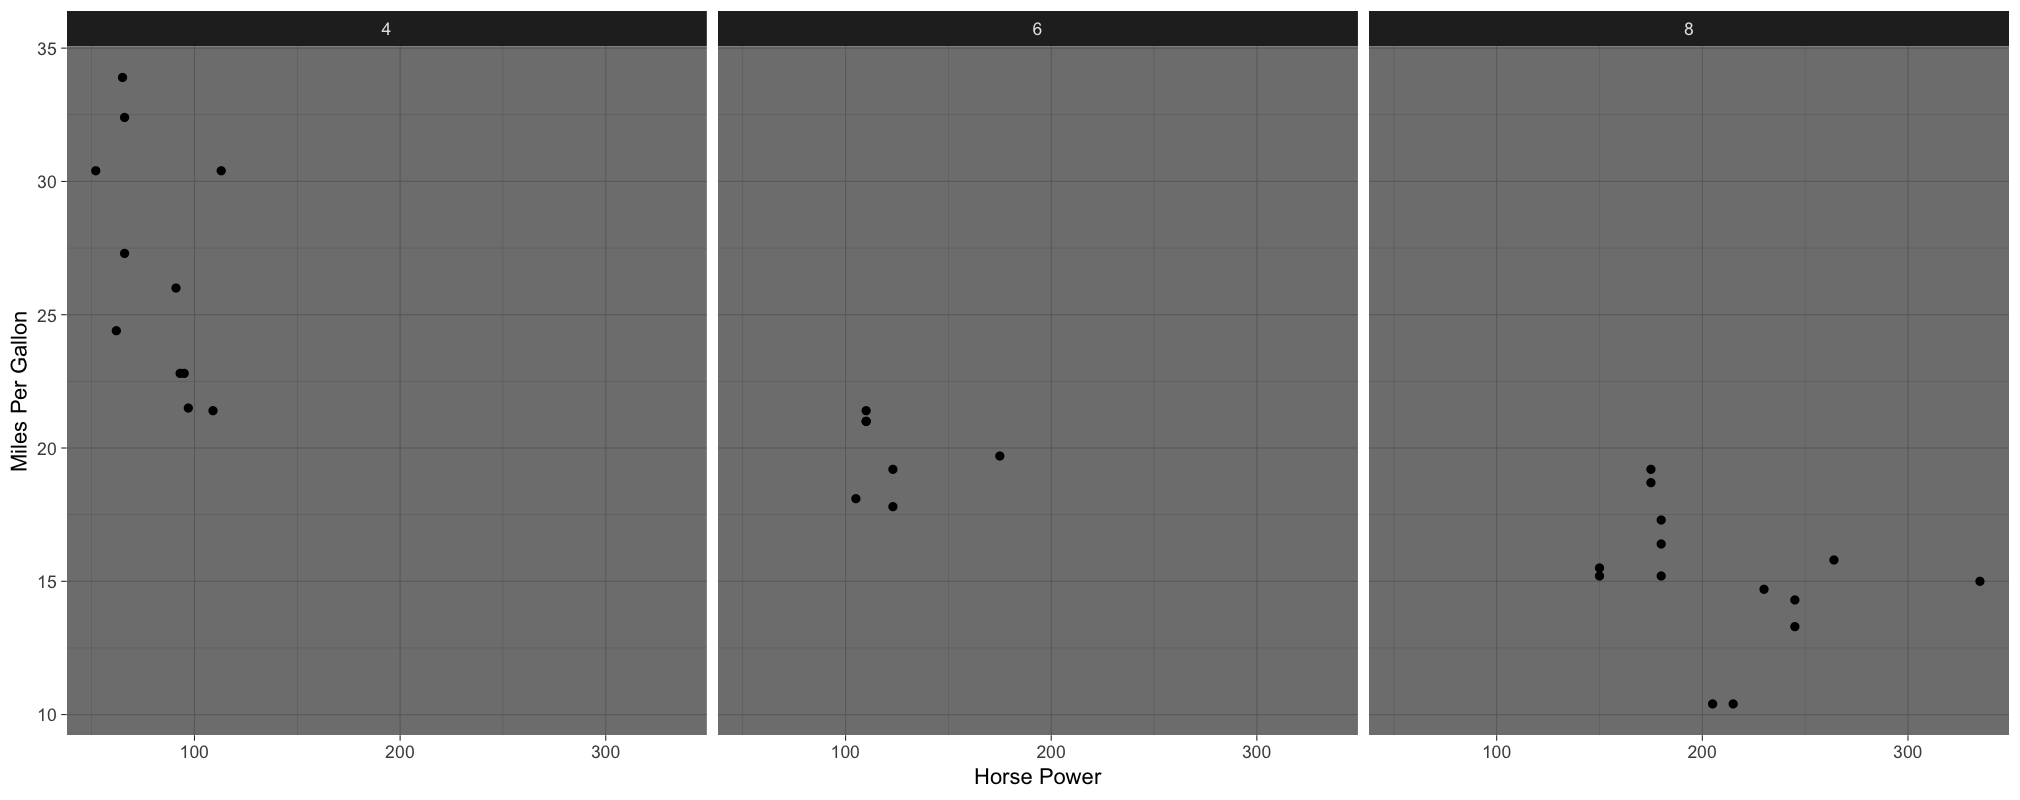
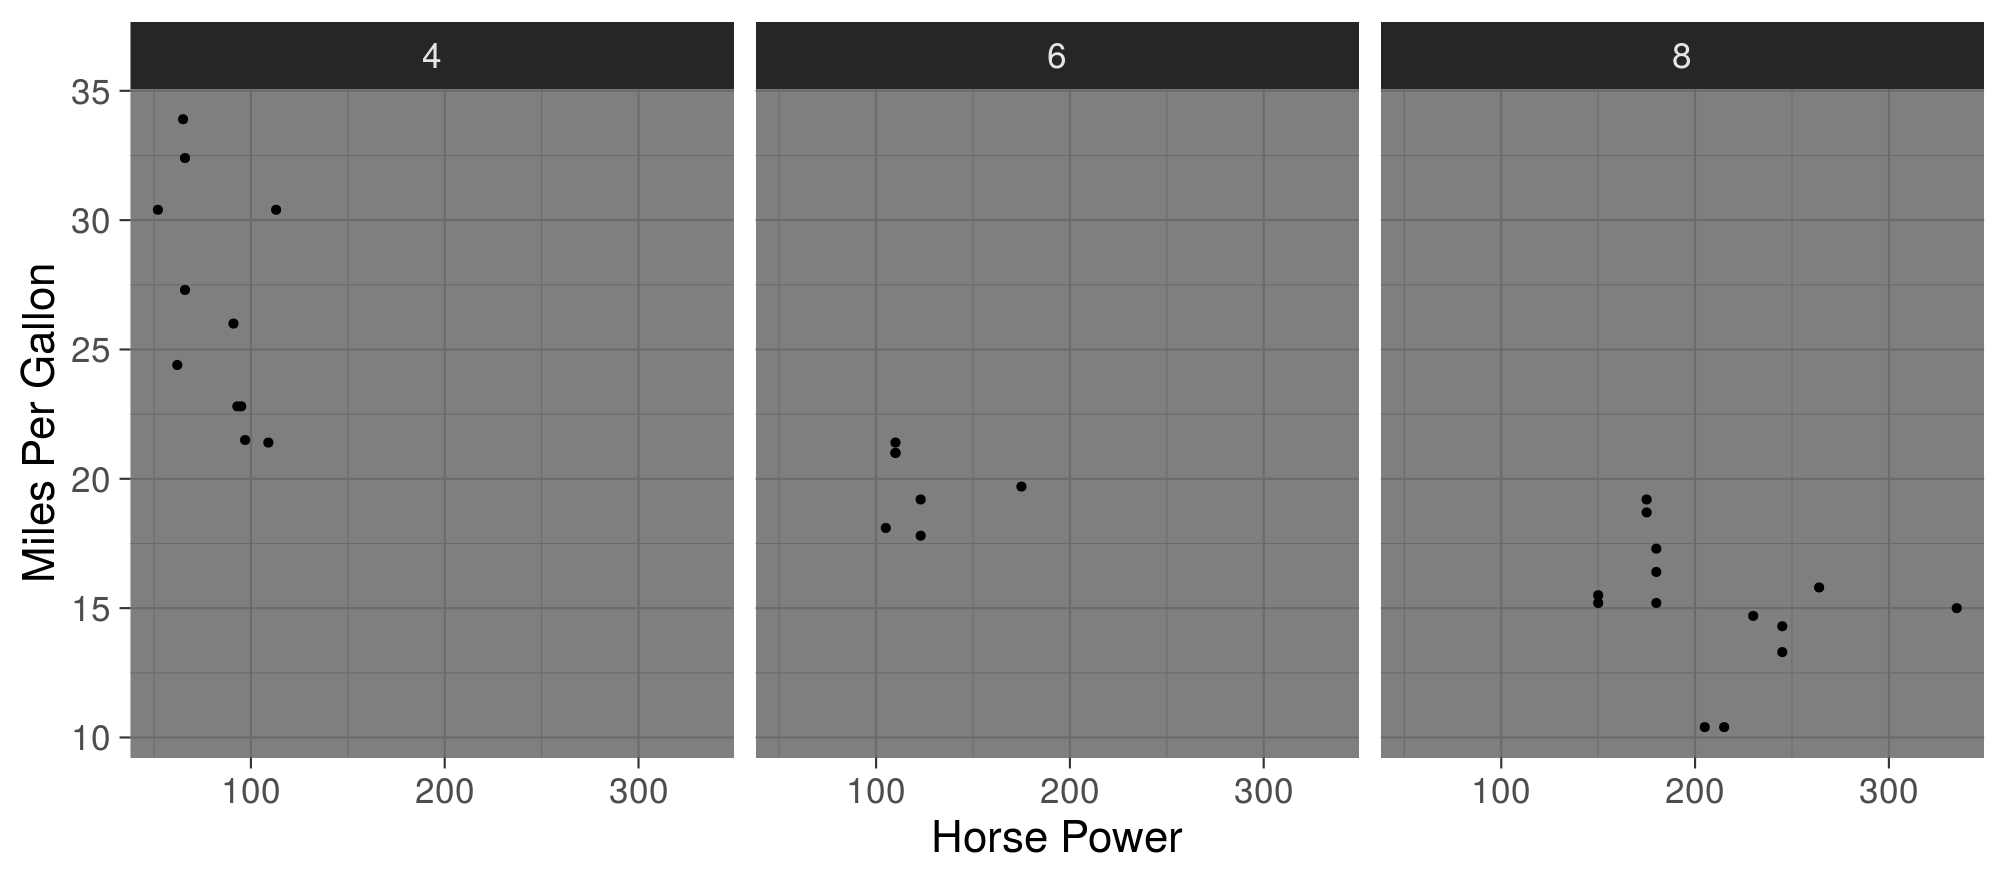
updates

diff --git a/shinymaterial_showcase/index.html b/shinymaterial_showcase/index.html
@@ -296,11 +296,11 @@ select[name$=_length] {
     <span class="hljs-keyword">if</span>(input$plot_theme == <span class="hljs-string">"light"</span>){
       plot_output &lt;- 
         plot_output + 
-        theme_light()
+        theme_light(base_size = 20)
     } <span class="hljs-keyword">else</span> <span class="hljs-keyword">if</span>(input$plot_theme == <span class="hljs-string">"dark"</span>){
       plot_output &lt;-
         plot_output + 
-        theme_dark()
+        theme_dark(base_size = 20)
     }
     
     plot_output
